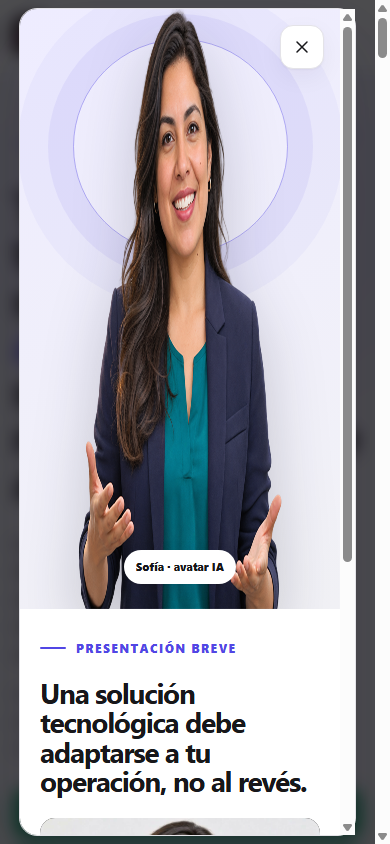
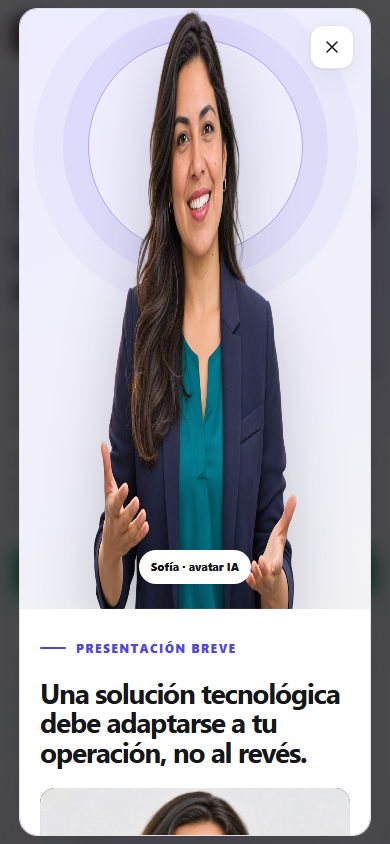
fix: rebalance commercial hero

diff --git a/site.css b/site.css
@@ -186,13 +186,13 @@ html[data-theme="dark"] .button-primary { color: #09090c; }
 .button-outline-light:hover { background: rgba(255,255,255,.14); }
 
 .hero {
-  min-height: 760px;
-  padding-top: 92px;
-  padding-bottom: 86px;
+  min-height: auto;
+  padding-top: 68px;
+  padding-bottom: 68px;
   display: grid;
-  grid-template-columns: minmax(0, .92fr) minmax(560px, 1.08fr);
+  grid-template-columns: minmax(0, 1.06fr) minmax(500px, .94fr);
   align-items: center;
-  gap: clamp(42px, 6vw, 88px);
+  gap: clamp(32px, 4vw, 64px);
   position: relative;
 }
 .hero::before {
@@ -219,21 +219,22 @@ html[data-theme="dark"] .button-primary { color: #09090c; }
 }
 .eyebrow span { width: 26px; height: 2px; border-radius: 2px; background: currentColor; }
 .hero h1 {
-  max-width: 750px;
-  margin-bottom: 26px;
+  max-width: 700px;
+  margin-bottom: 22px;
   color: var(--text-strong);
-  font-size: clamp(3rem, 4.9vw, 5rem);
-  line-height: .98;
-  letter-spacing: -.062em;
+  font-size: clamp(3rem, 3.7vw, 4.25rem);
+  line-height: 1;
+  letter-spacing: -.055em;
+  text-wrap: balance;
 }
 .hero h1 em { color: var(--primary); font-style: normal; }
-.hero-lead { max-width: 690px; margin-bottom: 14px; font-size: 1.14rem; line-height: 1.72; color: var(--text); }
-.hero-support { max-width: 660px; margin-bottom: 30px; color: var(--muted); }
+.hero-lead { max-width: 690px; margin-bottom: 14px; font-size: 1.06rem; line-height: 1.62; color: var(--text); }
+.hero-support { max-width: 660px; margin-bottom: 24px; color: var(--muted); }
 .hero-actions { display: flex; flex-wrap: wrap; gap: 12px; }
 .trust-list {
   list-style: none;
   padding: 0;
-  margin: 34px 0 0;
+  margin: 26px 0 0;
   display: flex;
   flex-wrap: wrap;
   gap: 9px 18px;
@@ -246,7 +247,7 @@ html[data-theme="dark"] .button-primary { color: #09090c; }
 .trust-list li { display: flex; align-items: center; gap: 9px; }
 .trust-list li::before { content: ""; width: 4px; height: 4px; border-radius: 50%; background: var(--green); }
 
-.hero-visual { position: relative; padding: 26px 0 48px; }
+.hero-visual { position: relative; width: 100%; max-width: 700px; justify-self: end; padding: 16px 0 32px; }
 .product-window, .case-browser {
   overflow: hidden;
   border: 1px solid var(--border);
@@ -275,7 +276,7 @@ html[data-theme="dark"] .button-primary { color: #09090c; }
 .window-dots i:first-child { background: var(--coral); }
 .window-dots i:nth-child(2) { background: var(--warning); }
 .window-dots i:last-child { background: var(--green); }
-.product-window > img { width: 100%; aspect-ratio: 1200 / 728; object-fit: cover; object-position: top left; }
+.product-window > img { width: 100%; height: auto; aspect-ratio: 1200 / 728; object-fit: cover; object-position: top left; }
 .floating-product {
   position: absolute;
   z-index: 3;
@@ -511,6 +512,10 @@ html[data-theme="dark"] .product-badge { color: #7bd6ff; background: #153341; }
 .floating-whatsapp small { color: rgba(255,255,255,.78); font-size: .62rem; font-weight: 700; }
 .floating-whatsapp strong { font-size: .82rem; letter-spacing: .01em; }
 
+@media (min-width: 901px) {
+  .floating-whatsapp { display: none; }
+}
+
 .sofia-dialog { width: min(920px, calc(100% - 28px)); max-height: min(760px, calc(100vh - 28px)); padding: 0; overflow: auto; border: 1px solid var(--border); border-radius: 24px; background: var(--surface); color: var(--text); box-shadow: var(--shadow-lg); }
 .sofia-dialog::backdrop { background: rgba(8,9,11,.72); backdrop-filter: blur(8px); }
 .dialog-shell { display: grid; grid-template-columns: 320px 1fr; min-height: 550px; position: relative; }
@@ -584,7 +589,7 @@ html[data-theme="dark"] .product-badge { color: #7bd6ff; background: #153341; }
   .brand-copy strong { max-width: 195px; overflow: hidden; text-overflow: ellipsis; font-size: .82rem; }
   .brand-copy small { display: none; }
   .hero { padding-top: 54px; padding-bottom: 64px; gap: 36px; }
-  .hero h1 { font-size: clamp(2.6rem, 12vw, 4rem); }
+  .hero h1 { font-size: clamp(2.35rem, 10.5vw, 3.3rem); }
   .hero-lead { font-size: 1rem; }
   .hero-actions { display: grid; }
   .button { width: 100%; }

diff --git a/index.html b/index.html
@@ -25,7 +25,7 @@
       }
     })();
   </script>
-  <link rel="stylesheet" href="site.css?v=20261117b">
+  <link rel="stylesheet" href="site.css?v=20261117c">
   <script defer src="site.js?v=20261117b"></script>
   <script type="application/ld+json">
   {
@@ -77,7 +77,7 @@
     <section class="hero section-shell" aria-labelledby="hero-title">
       <div class="hero-copy reveal">
         <p class="eyebrow"><span></span> Productos propios · Automatización · IA aplicada</p>
-        <h1 id="hero-title">Tu operación no tiene por qué seguir <em>arrendando</em> un sistema que nunca termina de adaptarse.</h1>
+        <h1 id="hero-title">Tu operación merece un <em>sistema propio</em> que sí se adapte.</h1>
         <p class="hero-lead">En <strong>MS Soluciones Tecnológicas SpA</strong> diseñamos, migramos e implementamos sistemas propios para empresas que necesitan más control sobre sus procesos, datos y evolución tecnológica.</p>
         <p class="hero-support">Integramos lo que ya utilizas, lo reemplazamos por etapas o construimos sobre productos que ya están en funcionamiento.</p>
         <div class="hero-actions">
